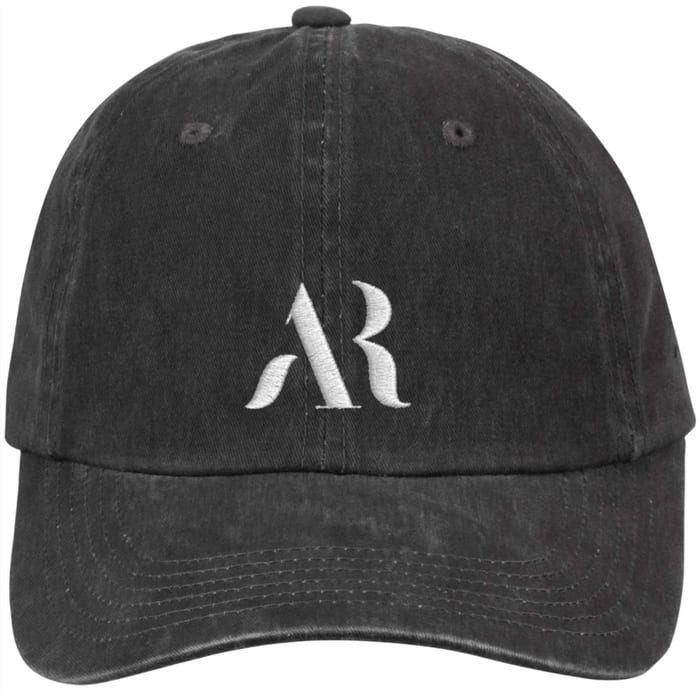
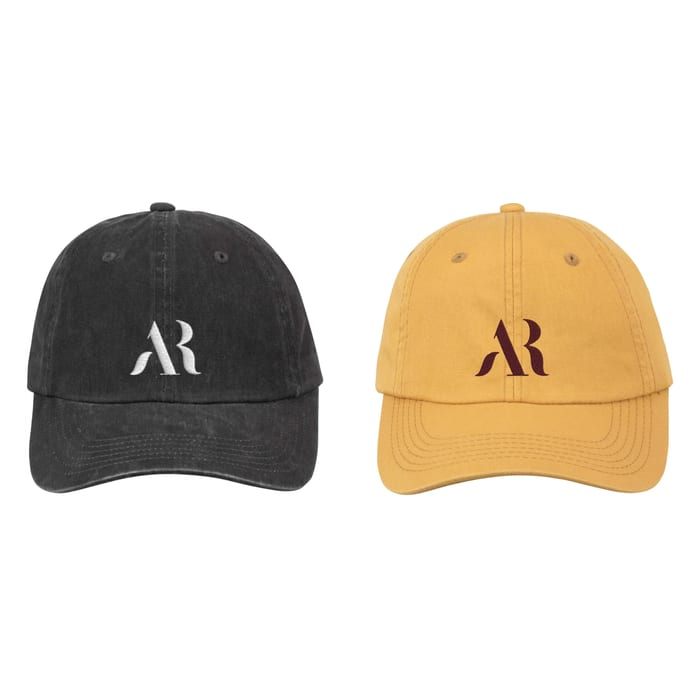
Show both AR hat colorways (black + Dunlap gold/maroon) (#3)
Composite the black (white AR) and gold/maroon (maroon AR) caps into the hat
card tile — gold & maroon are the Dunlap school colors. Updated the item copy
to name both. Same /merch-hat.jpg path, so the card picks it up automatically.

Claude-Session: https://claude.ai/code/session_01UFVVWjGaYFjiN5y6pahQoV

diff --git a/src/lib/sheet.js b/src/lib/sheet.js
@@ -387,7 +387,7 @@ export function mapOpsStatus(rows) {
 // `key` is also the localStorage order/stock key in admin Merch, so keep keys
 // stable even when a label changes (sweatbands still keys off "wristbands").
 export const MERCH_ITEMS = [
-  { key: "hat", label: "AR Hat", price: 20, cost: 13, img: "/merch-hat.jpg", desc: "Embroidered AR cap — black (white AR) or gold (maroon AR)." },
+  { key: "hat", label: "AR Hat", price: 20, cost: 13, img: "/merch-hat.jpg", desc: "Embroidered AR cap — black with white AR, or Dunlap gold & maroon." },
   { key: "wristbands", label: "Sweatbands", price: 10, cost: 6.25, img: "/merch-sweatbands.jpg", desc: "Wrist pair — maroon, white, or black, each with the gold AR." },
   { key: "towel", label: "Court Towel", price: 12, cost: 9, img: "/merch-towel.jpg", desc: "White sideline towel with a maroon or gold AR." },
 ];
